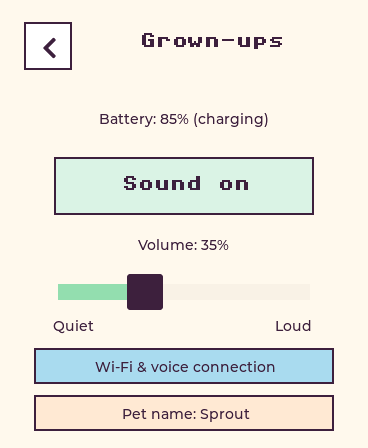
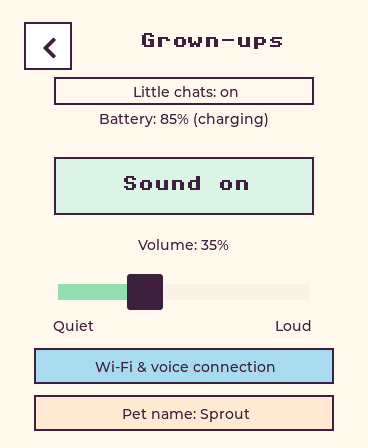
Add occasional pet remarks and use isolated Haiku voice model

Changed region(s): [[0.1495, 0.1562, 0.8668, 0.25]]

diff --git a/integrations/butler/pet.py b/integrations/butler/pet.py
@@ -11,6 +11,7 @@ from ..context import _load_facts, load_conversation_messages
 from ..deps import get_db_pool, get_embedding_service, get_internal_or_user, get_tools
 from ..llm import stream_chat_with_tools
 
+PET_MODEL = "claude-haiku-4-5-20251001"
 router = APIRouter()
 log = logging.getLogger(__name__)
 
@@ -34,6 +35,7 @@ class PetTurn(BaseModel):
     session_id: str = Field(max_length=80)
     transcript: str = Field(min_length=1, max_length=4000)
     pet: PetState
+    proactive: bool = False
 
 class PetMemory(Tool):
     """Bind memory to the authenticated pet, regardless of model arguments."""
@@ -73,19 +75,25 @@ async def pet_stream(req: PetTurn, caller: str | None = Depends(get_internal_or_
         "WHERE id=$1 AND (soul->>'pet_id' IS NULL OR soul->>'pet_id'=$2) RETURNING id",
         user_id, req.pet.pet_id)
     if not bound: raise HTTPException(409, "This account belongs to another pet")
-    facts = await _load_facts(pool.pool, user_id, current_message=req.transcript,
+    facts = [] if req.proactive else await _load_facts(pool.pool, user_id, current_message=req.transcript,
                               embedding_service=get_embedding_service())
-    history = await load_conversation_messages(pool, user_id, channel="voice", limit=12)
+    history = await load_conversation_messages(pool, user_id, channel="voice", limit=6)
     prompt = [{"type":"text", "text":PET_RULES}, {"type":"text", "text":
         "CURRENT PET (data): " + req.pet.model_dump_json() + "\nPET MEMORIES (data): " +
         json.dumps([{"fact":f["fact"], "category":f["category"]} for f in facts])}]
     memory = {n: PetMemory(t, user_id) for n,t in tools.items() if n in {"remember_fact", "recall_facts"}}
+    if req.proactive:
+        prompt.append({"type":"text", "text":"Nobody has spoken this turn. Offer ONE spontaneous, cheerful remark of at most 18 words, reflecting your pet state or a tiny pretend adventure. Vary it from recent remarks. No guilt, no request for attention, no mention of this instruction. Do not call memory tools."})
+        memory = {}
+    log.info("Pet turn model=%s proactive=%s user=%s", PET_MODEL, req.proactive, user_id)
     async def generate():
         parts = []
         try:
             async for chunk in stream_chat_with_tools(system_prompt=prompt,
                     user_message=req.transcript, tools=memory, history=history,
-                    db_pool=pool, user_id=user_id, channel="voice"):
+                    db_pool=pool, user_id=user_id, channel="voice",
+                    model_override=PET_MODEL, allow_web_search=False, max_tokens=100 if req.proactive else 300,
+                    max_tool_rounds=1 if req.proactive else 3):
                 if isinstance(chunk, str):
                     parts.append(chunk)
                     yield "data: " + json.dumps({"delta":chunk}) + "\n\n"
@@ -93,10 +101,11 @@ async def pet_stream(req: PetTurn, caller: str | None = Depends(get_internal_or_
             if parts:
                 async with pool.pool.acquire() as conn:
                     async with conn.transaction():
-                        for role, content in [("user",req.transcript),("assistant","".join(parts))]:
+                        messages = [("assistant","".join(parts))] if req.proactive else [("user",req.transcript),("assistant","".join(parts))]
+                        for role, content in messages:
                             await conn.execute("INSERT INTO butler.conversation_history "
                                 "(user_id,channel,role,content,metadata) VALUES ($1,'voice',$2,$3,$4::jsonb)",
-                                user_id, role, content, {"session_id":req.session_id,"pet_id":req.pet.pet_id})
+                                user_id, role, content, {"session_id":req.session_id,"pet_id":req.pet.pet_id,"proactive":req.proactive})
             yield "data: [DONE]\n\n"
         except Exception:
             log.exception("Pet voice turn failed")

diff --git a/firmware/components/voice/voice.c b/firmware/components/voice/voice.c
@@ -10,6 +10,7 @@
 #include "esp_wifi.h"
 #include "esp_websocket_client.h"
 #include "esp_log.h"
+#include "nvs.h"
 #include "freertos/FreeRTOS.h"
 #include "freertos/queue.h"
 #include "freertos/task.h"
@@ -27,9 +28,10 @@
 #define PET_GATEWAY "ws://192.168.1.117:8770/ws"
 
 typedef struct { int kind; Pet pet; char activity[32]; size_t len; uint8_t pcm[640]; } Command;
-enum { START=1, END, CANCEL, PCM, CHECK, HELLO };
+enum { START=1, END, CANCEL, PCM, CHECK, HELLO, REMARK };
 static QueueHandle_t s_commands;
 static esp_websocket_client_handle_t s_ws;
+static atomic_bool s_auto=true;
 static atomic_int s_state=VOICE_OFFLINE;
 static atomic_bool s_wifi, s_ready, s_capturing, s_overflow, s_requested;
 static portMUX_TYPE s_lock=portMUX_INITIALIZER_UNLOCKED;
@@ -83,6 +85,21 @@ void voice_end_talk(const Pet *pet,const char *activity)
 }
 void voice_cancel(void) { atomic_store(&s_requested,false);audio_set_capture(false);atomic_store(&s_capturing,false);audio_voice_stop();enqueue(CANCEL,NULL,NULL); }
 void voice_check(void) { enqueue(CHECK,NULL,NULL); }
+bool voice_auto_enabled(void) { return atomic_load(&s_auto); }
+void voice_set_auto_enabled(bool enabled)
+{
+    atomic_store(&s_auto,enabled);
+    nvs_handle_t h;
+    if(nvs_open("pet_voice",NVS_READWRITE,&h)==ESP_OK) {
+        nvs_set_u8(h,"auto",enabled);nvs_commit(h);nvs_close(h);
+    }
+}
+bool voice_remark(const Pet *pet,const char *activity)
+{
+    if(!voice_auto_enabled() || !audio_is_ready() || !atomic_load(&s_ready) ||
+       atomic_load(&s_requested) || voice_get_state()!=VOICE_READY || audio_voice_playing())return false;
+    caption_set("");atomic_store(&s_state,VOICE_THINKING);enqueue(REMARK,pet,activity);return true;
+}
 static void mic(const uint8_t *p,size_t n)
 {
     if(!atomic_load(&s_capturing) || n>640) return;
@@ -186,6 +203,14 @@ static void worker(void *arg)
         } else if(c.kind==END) {
             audio_set_capture(false);atomic_store(&s_capturing,false);
             o=message("audio_end");add_pet(o,&c);send_json(o);turn_started=now;ESP_LOGI("voice","capture ended; mic frames=%u peak=%d",audio_mic_frames(),audio_mic_level());
+        } else if(c.kind==REMARK) {
+            // A manual press takes priority, even if it races this queued remark.
+            if(atomic_load(&s_requested))continue;
+            if(!voice_auto_enabled()) {atomic_store(&s_state,VOICE_READY);continue;}
+            o=message("text");add_pet(o,&c);cJSON_AddBoolToObject(o,"proactive",true);
+            cJSON_AddStringToObject(o,"text","A quiet moment in the pet's room.");
+            if(!send_json(o)) {atomic_store(&s_state,VOICE_READY);continue;}
+            turn_started=now;ESP_LOGI("voice","spontaneous pet remark requested");
         } else if(c.kind==PCM && atomic_load(&s_ready)) {
             if(esp_websocket_client_send_bin(s_ws,(char*)c.pcm,c.len,pdMS_TO_TICKS(300))!=(int)c.len) atomic_store(&s_overflow,true);
         } else if(c.kind==CANCEL) { send_json(message("cancel"));atomic_store(&s_state,atomic_load(&s_ready)?VOICE_READY:VOICE_OFFLINE); }
@@ -197,6 +222,9 @@ static void worker(void *arg)
 }
 void voice_init(void)
 {
+    nvs_handle_t h;uint8_t enabled=1;
+    if(nvs_open("pet_voice",NVS_READONLY,&h)==ESP_OK) {nvs_get_u8(h,"auto",&enabled);nvs_close(h);}
+    atomic_store(&s_auto,enabled!=0);
     ESP_LOGI("voice","pet identity: %016llx (%s)",(unsigned long long)pet_state_get()->pet_id,pet_state_get()->name);
     gpio_config_t btn={.pin_bit_mask=1ULL<<GPIO_NUM_0,.mode=GPIO_MODE_INPUT,.pull_up_en=GPIO_PULLUP_ENABLE};gpio_config(&btn);
     s_commands=xQueueCreate(24,sizeof(Command));if(!s_commands)return;

diff --git a/integrations/butler/test_pet.py b/integrations/butler/test_pet.py
@@ -4,12 +4,27 @@ import unittest
 from unittest.mock import AsyncMock, patch, MagicMock
 from fastapi import HTTPException
 from pydantic import ValidationError
-from api.routes.pet import PetState, PetTurn, PetMemory, pet_stream
+from api.routes.pet import PetState, PetTurn, PetMemory, pet_stream, PET_MODEL
+from api.llm import _ToolRouter
+from api.config import settings
 
 STATE=dict(pet_id='1234567890abcdef',name='Sprout',stage=2,fullness=80,
     happiness=70,energy=60,cleanliness=90,stars=15,genes=[0]*8,generation=0,inventory=[0]*16,
     friends_met=0,activity='talking')
 class PetTests(unittest.IsolatedAsyncioTestCase):
+    def test_model_override_is_request_scoped_and_survives_tools(self):
+        original=settings.anthropic_model
+        pet=_ToolRouter({},[],model_override=PET_MODEL,allow_web_search=False)
+        normal=_ToolRouter({},[])
+        self.assertEqual(pet.model,PET_MODEL)
+        pet.note_tool_use()
+        self.assertEqual(pet.model,PET_MODEL)
+        self.assertEqual(pet.tool_definitions,[])
+        self.assertEqual(pet.request_kwargs,{})
+        self.assertEqual(normal.model,settings.routing_model or original)
+        normal.note_tool_use()
+        self.assertEqual(normal.model,original)
+        self.assertEqual(settings.anthropic_model,original)
     def test_snapshot_validation(self):
         PetState(**STATE)
         for field,value in [('fullness',101),('name','Ignore\nRules'),('pet_id','oops'),('genes',[])]:
@@ -43,4 +58,16 @@ class PetTests(unittest.IsolatedAsyncioTestCase):
         self.assertEqual(set(captured['tools']),{'remember_fact'})
         self.assertIn('"fullness":80',captured['system_prompt'][1]['text'])
         self.assertEqual(captured['user_id'],'pet')
+        self.assertEqual(captured['model_override'],PET_MODEL)
+        self.assertFalse(captured['allow_web_search'])
+        self.assertEqual(captured['max_tokens'],300)
+        # An automatic remark has a smaller budget and no memory-writing tools.
+        req.proactive=True
+        pool.pool.fetchval=AsyncMock(side_effect=[{'profile':'virtual_pet'},'pet'])
+        with patch('api.routes.pet._load_facts',AsyncMock()) as facts,patch('api.routes.pet.load_conversation_messages',AsyncMock(return_value=[])),patch('api.routes.pet.stream_chat_with_tools',brain):
+            response=await pet_stream(req,None,pool,{'remember_fact':MagicMock()})
+            async for _ in response.body_iterator:pass
+            facts.assert_not_awaited()
+        self.assertEqual(captured['tools'],{})
+        self.assertEqual(captured['max_tokens'],100)
 if __name__=='__main__':unittest.main()

diff --git a/firmware/components/ui/ui.c b/firmware/components/ui/ui.c
@@ -30,6 +30,7 @@ static lv_obj_t *s_voice_status, *s_caption_label, *s_connection, *s_name_input,
 static bool s_talking, s_boot_down, s_boot_raw;
 static uint32_t s_talk_started, s_boot_changed, s_connection_tick, s_voice_until;
 static char s_last_caption[512];
+static uint32_t s_next_remark, s_last_manual_talk;
 static pixel_pet_art_t s_pet_art;
 static pixel_face_t s_face;
 static uint32_t s_started, s_hop_until, s_last_tick;
@@ -207,6 +208,7 @@ static const char *activity(void)
 static void talk_begin(void)
 {
     if(s_talking) return;
+    s_last_manual_talk=lv_tick_get();s_next_remark=s_last_manual_talk+240000+esp_random()%180001;
     s_talking=true;s_talk_started=lv_tick_get();s_voice_until=0;
     voice_start_talk(pet_state_get(),activity());
 }
@@ -219,6 +221,11 @@ static void talk_cb(lv_event_t *e)
 {
     if(lv_event_get_code(e)==LV_EVENT_PRESSED)talk_begin();
     if(lv_event_get_code(e)==LV_EVENT_RELEASED || lv_event_get_code(e)==LV_EVENT_PRESS_LOST)talk_end();
+}
+static void auto_chat_cb(lv_event_t *e)
+{
+    (void)e;voice_set_auto_enabled(!voice_auto_enabled());
+    s_next_remark=lv_tick_get()+90000;show(SETTINGS);
 }
 static void check_cb(lv_event_t *e) { (void)e;voice_check(); }
 static void name_save(lv_event_t *e)
@@ -341,6 +348,8 @@ static void show(View view)
         label(s_root,"Feed, play, nap and splash!",24,390,320,false);
     } else if(view==SETTINGS) {
         header("Grown-ups");
+        lv_obj_t *chatter=button(s_root,54,77,260,28,CREAM,auto_chat_cb,0);
+        label(chatter,voice_auto_enabled()?"Little chats: on":"Little chats: off",0,5,260,false);
         int batt=power_battery_percent(); char b[64];
         if(batt<0) snprintf(b,sizeof(b),"Battery: USB power");
         else snprintf(b,sizeof(b),"Battery: %d%%%s",batt,power_is_charging()?" (charging)":"");
@@ -408,6 +417,14 @@ static void frame(lv_timer_t *t)
     }
     if(s_talking && now-s_talk_started>=20000)talk_end();
     voice_state_t vs=voice_get_state();
+    if(!s_next_remark)s_next_remark=now+90000;
+    uint32_t inactivity=lv_display_get_inactive_time(NULL);
+    if((int32_t)(now-s_next_remark)>=0 && s_view==HOME && !s_talking &&
+       !s_muted && audio_get_volume()>0 && voice_auto_enabled() &&
+       (inactivity<600000 || now-s_last_manual_talk<600000) && vs==VOICE_READY && !audio_voice_playing()) {
+        s_next_remark=now+240000+esp_random()%180001;
+        voice_remark(pet_state_get(),activity());
+    }
     if(s_voice_status) {
         char caption[512];voice_caption(caption,sizeof(caption));
         bool speaking=vs==VOICE_SPEAKING || audio_voice_playing();

diff --git a/tests/host/test.c b/tests/host/test.c
@@ -19,7 +19,12 @@ int power_battery_percent(void) { return 85; }
 bool power_is_charging(void) { return true; }
 void audio_play(sfx_id_t f) { (void)f; }
 void audio_set_muted(bool m) { (void)m; }
-static bool test_boot;
+static bool test_boot, test_auto=true;
+static unsigned test_remarks;
+bool voice_auto_enabled(void) {return test_auto;}
+void voice_set_auto_enabled(bool b) {test_auto=b;}
+bool voice_remark(const Pet *p,const char *a) {(void)p;(void)a;test_remarks++;return true;}
+
 static int test_starts, test_ends;
 static voice_state_t test_voice=VOICE_READY;
 void voice_init(void) {}
@@ -116,6 +121,14 @@ int main(void)
     // BOOT also leaves an ongoing care activity in place.
     show(BATH);test_boot=true;advance(200);assert(s_view==BATH && s_talking);
     test_boot=false;advance(200);assert(s_view==BATH && !s_talking);test_voice=VOICE_READY;
+    show(HOME);test_voice=VOICE_READY;s_muted=false;audio_set_volume(35);
+    s_next_remark=lv_tick_get()-1;unsigned remarks=test_remarks;
+    advance(80);assert(test_remarks==remarks+1);advance(80);assert(test_remarks==remarks+1);
+    s_next_remark=lv_tick_get()-1;test_auto=false;advance(80);assert(test_remarks==remarks+1);
+    test_auto=true;s_muted=true;advance(80);assert(test_remarks==remarks+1);
+    s_muted=false;audio_set_volume(0);advance(80);assert(test_remarks==remarks+1);
+    audio_set_volume(35);show(BATH);advance(80);assert(test_remarks==remarks+1);
+    show(HOME);s_next_remark=lv_tick_get()+90000;
     show(CONNECTION);advance(600);shot("connection");show(NAME);shot("name");
     lv_textarea_set_text(s_name_input,"Clover");tap(180,235);assert(s_view==SETTINGS);assert(!strcmp(pet_state_get()->name,"Clover"));
     show(NAME);lv_textarea_set_text(s_name_input,"");tap(180,235);assert(s_view==NAME);

diff --git a/firmware/components/voice/include/voice.h b/firmware/components/voice/include/voice.h
@@ -13,3 +13,7 @@ voice_state_t voice_get_state(void);
 void voice_status(char *out, size_t n);
 void voice_caption(char *out, size_t n);
 bool voice_boot_pressed(void);
+
+bool voice_auto_enabled(void);
+void voice_set_auto_enabled(bool enabled);
+bool voice_remark(const Pet *pet, const char *activity);

diff --git a/docs/voice-v1.md b/docs/voice-v1.md
@@ -59,3 +59,15 @@ Speech storage now explicitly uses PSRAM with `xStreamBufferCreateStatic`; its c
 Voice now stays in the normal room, with a holdable speech bubble, listening level feedback, thinking/reply text, and mouth animation. BOOT also keeps other care screens in place. Host checks cover touch hold/release, BOOT press/release, the 20-second recording limit, and preserving an active bath. All 28 gateway tests pass, including empty microphone and silence feedback.
 
 Live device retest after the fix: one 1.20-second hold sent 38,400 PCM bytes; Groq transcribed “Hello.”, the dedicated pet endpoint returned HTTP 200, and Kokoro generated the reply. Device logs show microphone frame counts increasing from 3,078 to 3,138 during that recording.
+
+## Haiku and occasional little chats
+
+Only the pet uses `claude-haiku-4-5-20251001`, including memory-tool follow-ups. The shared streaming helper accepts a request-local model override; default Butler and routing settings are untouched. Pet replies cap output at 300 tokens, spontaneous remarks at 100. No web-search tools or fallback to a larger model are enabled for the pet. Recent conversation context is limited to six messages; deliberate conversations retain scoped vector memory.
+
+With **Options → Little chats: on**, the pet can volunteer a brief, state-aware comment in its home room. The first opportunity is about 90 seconds after boot; subsequent opportunities are randomly spaced 4–7 minutes apart. Manual conversations reset that cooldown. Automatic remarks are skipped while muted, at zero volume, during care activities or an ongoing conversation, offline, and after ten minutes without touch/BOOT interaction. The setting persists across restarts. Automatic remarks do not record or transmit microphone audio; hold-to-talk still interrupts it normally.
+
+Spontaneous remarks get an explicit automatic-turn instruction, no memory-writing tools or semantic lookup, and are stored only as the pet's own assistant messages (not invented child speech). This keeps them short and avoids paying for unnecessary background memory work.
+
+The shared helper change is preserved as `integrations/butler/llm_override.patch`; deploy it with the updated pet route. Backend isolation tests cover ordinary routing before/after tool use and pet override persistence across tool rounds.
+
+Live spontaneous-turn check passed: the ESP requested a remark at uptime 91.967 seconds, the pet route returned successfully, Kokoro generated speech, and the saved assistant message carried `proactive: true`. The running backend confirmed ordinary Butler `claude-opus-5` and pet `claude-haiku-4-5-20251001`. Gateway: 29 tests; backend: 6 tests; host gameplay/chatter guards passed.

diff --git a/README.md b/README.md
@@ -1,6 +1,6 @@
 # Little Meadow
 
-Voice v1: Sprout can now chat using the existing Mac mini voice stack. Hold the speech bubble or BOOT to talk without leaving the pet screen. Rename it and check Wi-Fi in Options. See [voice controls, setup and rollback](docs/voice-v1.md).
+Voice v1: Sprout can now chat using the existing Mac mini voice stack. Hold the speech bubble or BOOT to talk without leaving the pet screen. It uses Haiku and occasionally offers a little comment. Rename it, toggle Little chats and check Wi-Fi in Options. See [voice controls, setup and rollback](docs/voice-v1.md).
 
 A gentle touchscreen pet for the **Waveshare ESP32-S3-Touch-AMOLED-1.8 (original SH8601 / FT3168 board)**, built with ESP-IDF 5.3.5 and LVGL 9.
 
